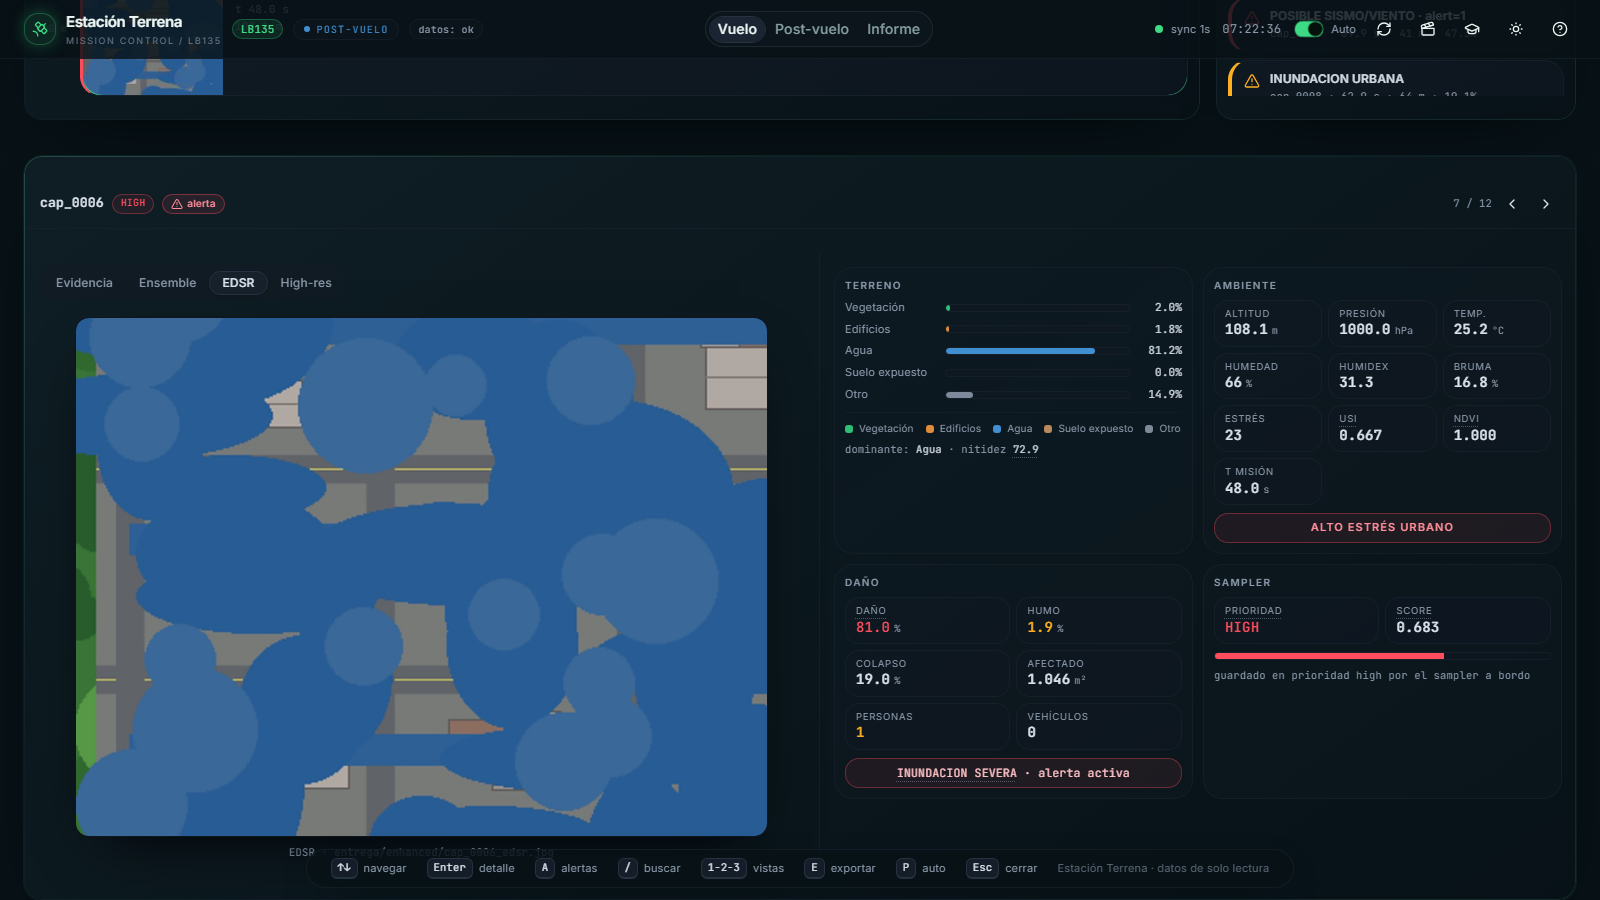
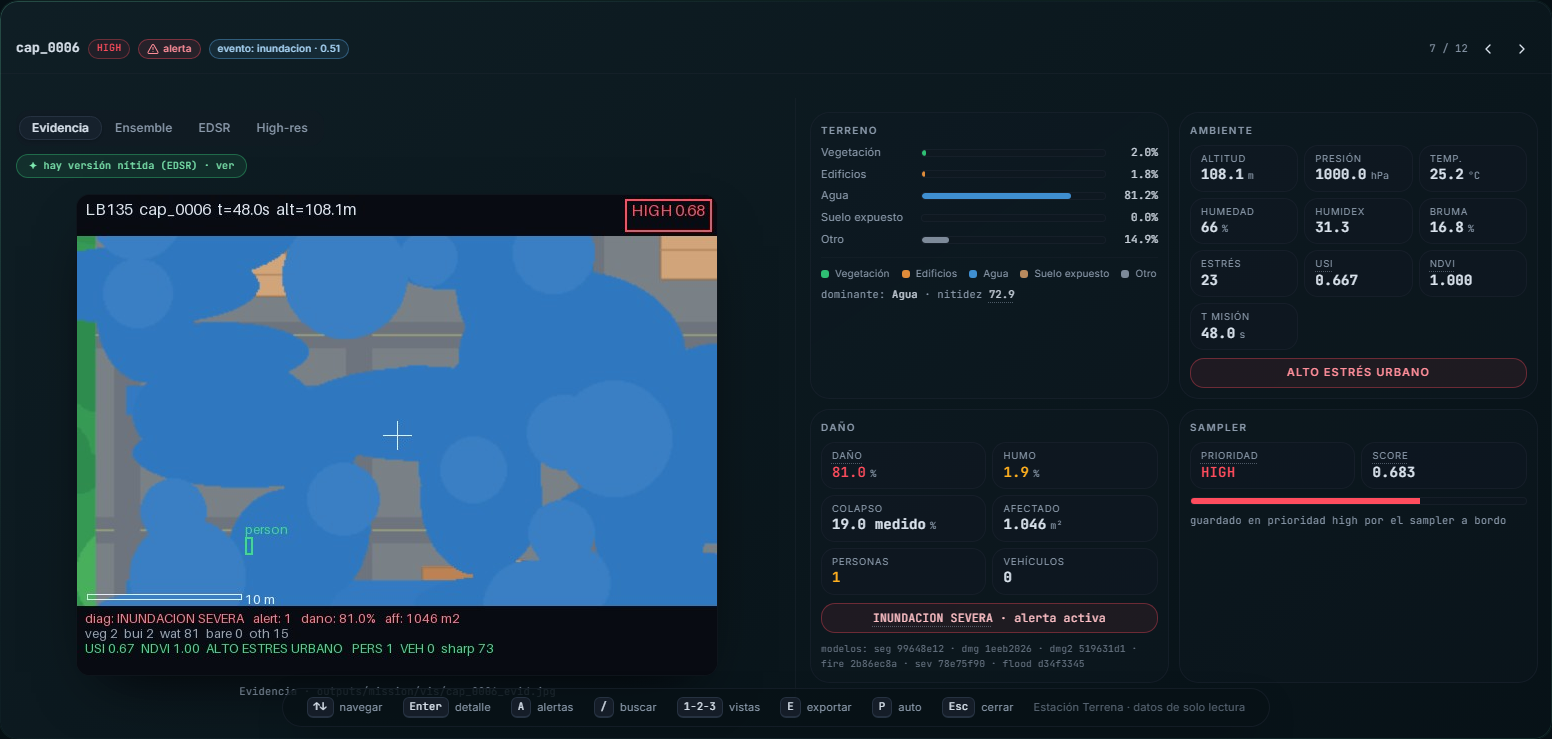
Contrato v3 en la estación: tipo de desastre, fuente del colapso y modelos
- web_server.py: _JSONL_KEYS ahora propaga colapso_fuente, pop_fuente,
  ocupacion_fuente, tipo_desastre, tipo_conf, model_ids y quant.
- Detail.tsx: badge "evento: <tipo> · conf" (clasificador, etiqueta débil),
  colapso con su fuente (medido/supuesto) y línea de trazabilidad con el hash
  corto de cada ONNX que produjo los campos.
- types.ts: SampleExtra con los campos del contrato v3.
- make_demo_mission.py: el demo escribe los campos v3; model_ids usa los
  hashes REALES de los ONNX de vuelo (repo hermano) si están.
- smoke-v4: 3 aserciones nuevas (badge de tipo, trazabilidad, fuente del
  colapso) — todo verde.
- shots-r4: 09_detalle_frame.png (contrato v3) + evidencias actualizadas.

diff --git a/EstacionTerrena_MuestreoDeDatos/web-app/src/components/Detail.tsx b/EstacionTerrena_MuestreoDeDatos/web-app/src/components/Detail.tsx
@@ -39,8 +39,10 @@ export function Detail() {
   const detailImg = useMission(s => s.detailImg)
   const select = useMission(s => s.select)
   const setDetailImg = useMission(s => s.setDetailImg)
+  const samples = useMission(s => s.samples)
 
   const f: Frame | null = selected ? bySrc.get(selected) ?? null : null
+  const ex = f ? samples[f.src] : undefined
   const list = useMemo(() => filteredFrames({ frames, filters, sort }), [frames, filters, sort])
 
   const avail = useMemo(() => (f ? IMG_TABS.filter(t => f.files?.[t.k]) : []), [f])
@@ -94,6 +96,16 @@ export function Detail() {
               <TriangleAlert className="size-3" />
             </motion.span>
             alerta
+          </Badge>
+        )}
+        {/* Contrato v3: tipo de desastre (clasificador, etiqueta débil del evento) */}
+        {ex?.tipo_desastre && (
+          <Badge
+            variant="secondary"
+            className="border-[#5aa9e6]/40 bg-[#5aa9e6]/10 text-[10px] text-[#a8d4f5]"
+            title={`Clasificador de tipo de desastre (etiqueta débil del evento, confianza ${num(ex.tipo_conf, 2)}). No altera el diagnóstico.`}
+          >
+            evento: {ex.tipo_desastre}{Number(ex.tipo_conf) > 0 ? ` · ${num(ex.tipo_conf, 2)}` : ''}
           </Badge>
         )}
         <div className="ml-auto flex items-center gap-1.5">
@@ -216,7 +228,11 @@ export function Detail() {
             {/* F3/F2b: fuego/humo y colapso medido (solo si el modelo corrió) */}
             {Number(f.fire_pct) > 0 && <Kv k="Fuego" v={num(f.fire_pct, 1)} u="%" tone="text-[#ff4d5e]" />}
             {Number(f.smoke_pct) > 0 && <Kv k="Humo" v={num(f.smoke_pct, 1)} u="%" tone="text-[#ffb020]" />}
-            {Number(f.colapso_pct) > 0 && <Kv k="Colapso" v={num(f.colapso_pct, 1)} u="%" />}
+            {/* Severidad textual: colapso MEDIDO (modelo) vs supuesto 0.3 */}
+            {Number(f.colapso_pct) > 0 && (
+              <Kv k="Colapso" v={`${num(f.colapso_pct, 1)}${ex?.colapso_fuente ? ` ${ex.colapso_fuente}` : ''}`} u="%"
+                gloss="colapso" />
+            )}
             <Kv k="Afectado" v={num(f.aff_m2, 0)} u="m²" />
             <Kv k="Personas" v={String(intOr(f.people))} tone={intOr(f.people) ? 'text-[#ffb020]' : ''} />
             <Kv k="Vehículos" v={String(intOr(f.vehicles))} tone={intOr(f.vehicles) ? 'text-[#ffb020]' : ''} />
@@ -225,6 +241,15 @@ export function Detail() {
             <Gloss term={f.diag ?? 'SINDESASTRE'}>{f.diag || 'sin diagnóstico'}</Gloss>
             {isAlert ? ' · alerta activa' : ''}
           </div>
+          {/* Contrato v3: hash corto del ONNX que produjo cada campo (trazabilidad) */}
+          {ex?.model_ids && Object.keys(ex.model_ids).length > 0 && (
+            <p
+              className="mt-2 font-mono text-[9.5px] leading-relaxed text-muted-foreground/70"
+              title={`Trazabilidad: hash corto (8 hex) del ONNX que produjo cada campo · quant ${ex.quant ?? 'fp32'}`}
+            >
+              modelos: {Object.entries(ex.model_ids).map(([k, v]) => `${k} ${v}`).join(' · ')}
+            </p>
+          )}
         </section>
 
         <section className="rounded-xl border border-border/60 bg-muted/20 p-2.5">

diff --git a/EstacionTerrena_MuestreoDeDatos/web-app/src/lib/types.ts b/EstacionTerrena_MuestreoDeDatos/web-app/src/lib/types.ts
@@ -79,6 +79,14 @@ export interface SampleExtra {
   sharp_ok?: boolean | null
   area_m2?: number | null
   supuestos?: Record<string, number> | null
+  /* Contrato v3: trazabilidad de fuentes y modelos por frame */
+  colapso_fuente?: string | null
+  pop_fuente?: string | null
+  ocupacion_fuente?: string | null
+  tipo_desastre?: string | null
+  tipo_conf?: number | null
+  model_ids?: Record<string, string> | null
+  quant?: string | null
 }
 
 export interface SamplesResumen {

diff --git a/EstacionTerrena_MuestreoDeDatos/tools/make_demo_mission.py b/EstacionTerrena_MuestreoDeDatos/tools/make_demo_mission.py
@@ -46,6 +46,7 @@ from __future__ import annotations
 
 import argparse
 import csv
+import hashlib
 import json
 import math
 import random
@@ -70,6 +71,27 @@ except ImportError:  # pragma: no cover
 
 ROOT = Path(__file__).resolve().parent.parent
 OUT = ROOT / "outputs"
+
+
+def _model_ids() -> dict[str, str]:
+    """Contrato v3: hash corto (8 hex) de los ONNX de vuelo, si están.
+
+    El demo corre desde la estación, con el repo de vuelo al lado
+    (``../cansat_seg_poc``); si no está, se omite el campo (la web lo tolera).
+    """
+    base = ROOT.parent / "cansat_seg_poc" / "outputs"
+    pares = {"seg": "cansat_seg_terrain_v2_224.onnx",
+             "dmg": "cansat_damage3_mobilenetv2.onnx",
+             "dmg2": "cansat_damage_v3_bal.onnx",
+             "fire": "cansat_fire_smoke.onnx",
+             "sev": "cansat_severity.onnx",
+             "flood": "cansat_flood_specialist_224.onnx"}
+    out: dict[str, str] = {}
+    for k, n in pares.items():
+        p = base / n
+        if p.is_file():
+            out[k] = hashlib.sha256(p.read_bytes()).hexdigest()[:8]
+    return out
 ENTREGA = ROOT / "entrega"
 
 # --------------------------------------------------------------------------- #
@@ -802,6 +824,7 @@ def main(argv=None) -> int:
     # al CSV (incertidumbre, tiempos por etapa, % sin datos). Sin él, el panel
     # de Muestreo de la estación queda vacío en las demos.
     jsonl_path = OUT / "mission" / "telemetry.jsonl"
+    model_ids = _model_ids()
     with jsonl_path.open("w", encoding="utf-8") as fh:
         for r in rows:
             unc = round(min(0.95, 0.12 + r["danado_pct"] / 220.0
@@ -818,6 +841,15 @@ def main(argv=None) -> int:
                 "sample_pri": r["sample_pri"],
                 "sample_score": r["sample_score"],
                 "supuestos": sup,
+                # Contrato v3: fuentes y trazabilidad (mismas claves que el
+                # pipeline real; el demo las simula para ejercitar la UI).
+                "colapso_fuente": "medido",
+                "pop_fuente": "demo",
+                "ocupacion_fuente": "demo",
+                "tipo_desastre": "inundacion",
+                "tipo_conf": 0.51,
+                "model_ids": model_ids,
+                "quant": "fp32",
             }, ensure_ascii=False) + "\n")
 
     # ── corridor_map.jpg ──

diff --git a/EstacionTerrena_MuestreoDeDatos/web_server.py b/EstacionTerrena_MuestreoDeDatos/web_server.py
@@ -420,7 +420,10 @@ CACHE = MissionCache()
 # trae sample_pri/sample_score; el JSONL agrega la incertidumbre, los tiempos
 # por etapa y el % de píxeles sin datos que el pipeline registra a bordo.
 _JSONL_KEYS = ("uncert", "ms_seg", "ms_dmg", "ms_total", "nodata_pct",
-               "danado2_edif_pct", "sharp_ok", "area_m2", "supuestos")
+               "danado2_edif_pct", "sharp_ok", "area_m2", "supuestos",
+               # Contrato v3: trazabilidad de fuentes y modelos por frame.
+               "colapso_fuente", "pop_fuente", "ocupacion_fuente",
+               "tipo_desastre", "tipo_conf", "model_ids", "quant")
 
 _JSONL_CACHE: dict = {"sig": "", "extras": {}, "resumen": {}}
 
